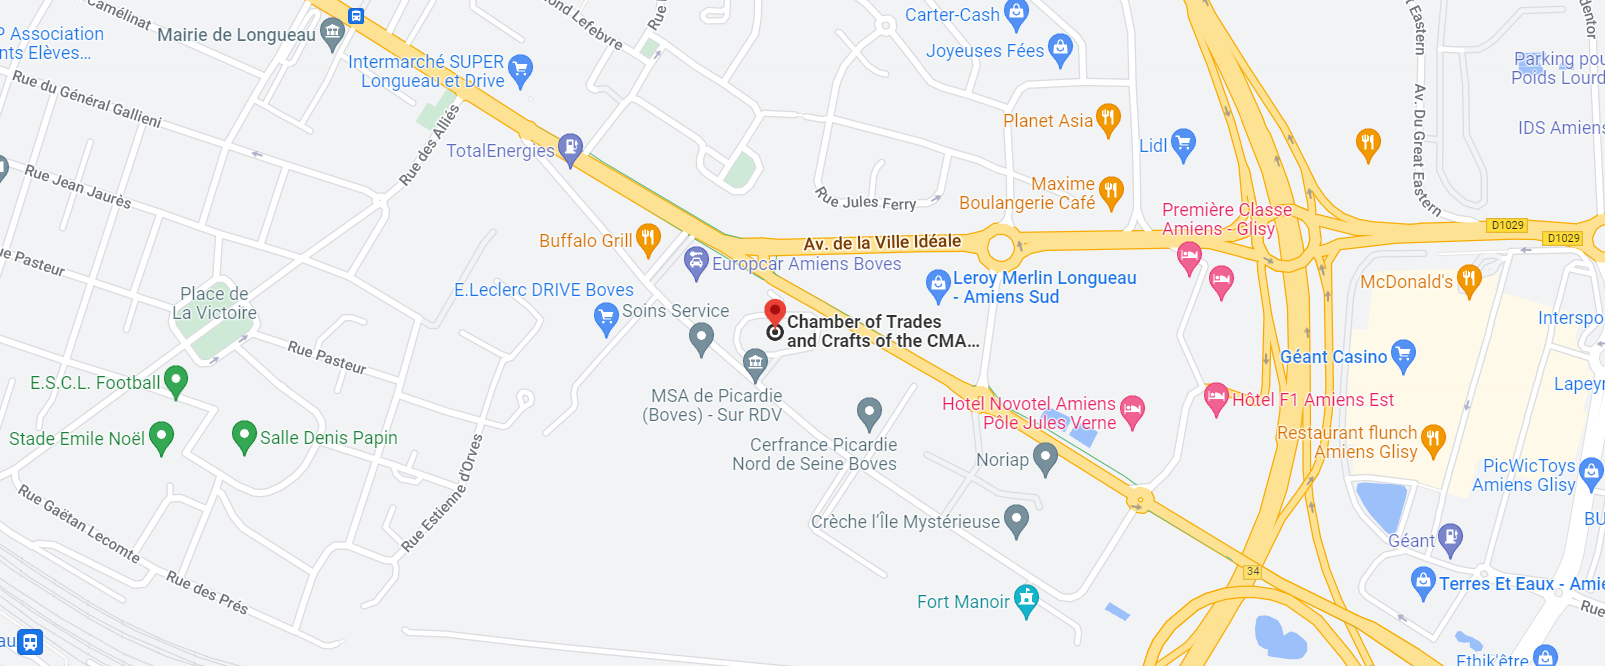
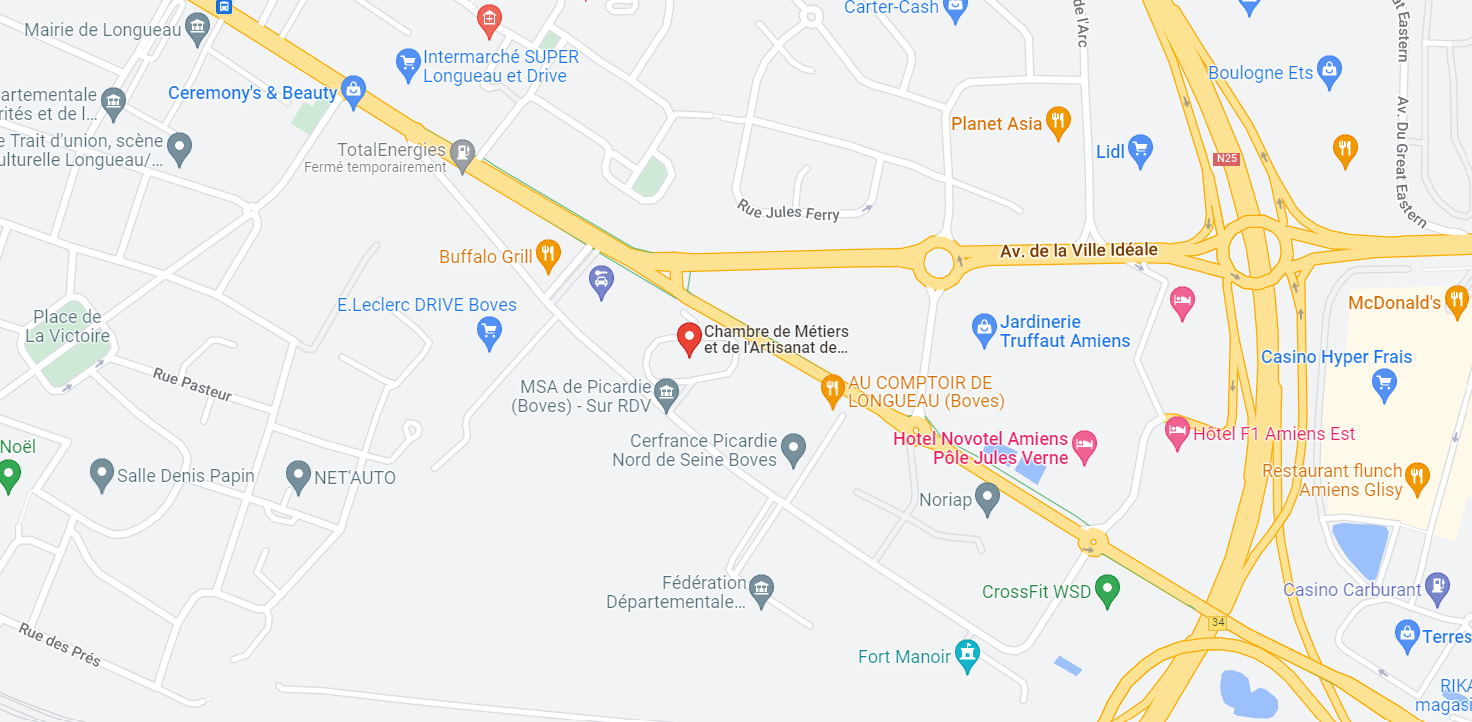
Quitter map + français.

diff --git a/src/component/PracticalInformation.js b/src/component/PracticalInformation.js
@@ -1,13 +1,11 @@
 
 
 import React from "react";
-// import { Map } from "./Map";
-import map from "../images/mapCMA.PNG"
-import { BsPinMapFill, BsFillClockFill, BsFillTelephoneFill, BsXLg } from "react-icons/bs";
-import { Nav } from "react-bootstrap";
-import loupe from "../images/loupe.svg";
+import PracticalInformationDisplay2 from "./PracticalInformationDisplay2";
+import PracticalInformationDisplay1 from "./PracticalInformationDisplay1";
+import "./practicalInformation.css";
 
-class PracticalInformation extends React.Component {
+class PracticalInformation extends React.Component {//Should be Display1 with the state outside deciding if we show this one!!
     constructor() {
         super();
         this.state = {
@@ -22,83 +20,13 @@ class PracticalInformation extends React.Component {
         });
     }
     render() {
-        // const location = {
-        //     // address: "17 Rue de l'Île Mystérieuse, 80440 Boves, France",
-        //     lat: 49.86743247024656,
-        //     lng: 2.364749792595157
-        // }
-
-        // const zoom = 11;
         return (
-            <div>
-
-                <div className="SubPartColored">
-                    <div style={{ paddingBottom: "12px" }}>Nos bureaux se trouvent au sein de la Chambre de Métiers et de l'Artisanat Hauts-de-France :</div>
-                    <div style={{ display: "flex", justifyContent: "center" }}>
-                        <BsPinMapFill onClick={this.setHasMap} style={{ fontSize: "40px", position: "relative", right: "115px", top: '15px', cursor: "pointer" }} />
-                        <div>
-                            <div>7 rue de l’Ile Mystérieuse </div>
-                            <div>Bureau 40</div>
-                            <div>80440 BOVES</div>
-                        </div>
-                    </div>
-                    <img src={loupe} style={{ width: "15vw", position: "relative", left: "40vw" }} alt={"loupe"} />{/**ça fait trop gamin */}
-                    <div className="title-part">
-                        <div >Nous</div>
-                        <div style={{ marginLeft: "35px" }} >trouver:</div>
-                    </div>
-                    {this.state.hasMap &&
-                        <>
-                            <img src={map} style={{ width: "90%", padding: "2px 0 2px 0" }} alt={"emplacement de la Chambe des Métier sur une carte"} />
-                            {/* <Map location={location} zoomLevel={1} /> {/* Voir les conditions d'utilisation de google Map*/}
-                            <BsXLg onClick={this.setHasMap} style={{ position: "relative", top: "10px", cursor: "pointer" }} />
-                        </>
-                    }
-                </div>
-                {/* <div className="SubPartColored2"> */}
-                <div className="SubPartColored2">
-                    <div>
-                        {/* // 8h30-12h 13h30-17h */}
-                        <BsFillClockFill />
-                        <div>8h30 - 12h</div>
-                        <div>13h30 - 17h</div>
-                    </div>
-                    <div>
-                        <BsFillTelephoneFill />
-                        <div>03 22 35 37 20</div>
-                    </div>
-                    <div className="title-part">
-                        <div >Nous</div>
-                        <div style={{ marginLeft: "35px" }} >contacter:</div>
-                    </div>
-                    {/* Le numéro de téléphone */}
-                    {/* On veut l'heure d'ouverture  */}
-                    {/* Quelles autres informations? */}
-                </div>
-                {/* More information: https://www.societe.com/societe/p-l-c-498965763.html */}
-                <div className="SubPartColored">
-                    <div style={{ display: "flex", justifyContent: "center" }}>
-                        <div>
-                            <Nav.Link href={"https://www.societe.com/societe/p-l-c-498965763.html"} className={"clickableItem"}>Renseignements juridiques</Nav.Link>
-                        </div>
-                    </div>
-                    <div className="title-part">
-                        <div >Nos</div>
-                        <div style={{ marginLeft: "35px" }} >Réseaux::</div>
-                    </div>
-                </div>
-                <div className="SubPartColored">
-                    <div style={{ display: "flex", justifyContent: "center" }}>
-                        <div style={{ paddingBottom: "12px" }}>Seule notre partie formation est accessible sur les réseaux, </div>
-                    </div>
-                    <div className="title-part">
-                        <div >Plus</div>
-                        <div style={{ marginLeft: "35px" }} >d'informations:</div>
-                    </div>
-                </div>
-            </div>
-
-
+            <>
+                {this.state.hasMap
+                    ? <PracticalInformationDisplay2 setHasMap={this.setHasMap} />
+                    : <PracticalInformationDisplay1 setHasMap={this.setHasMap} />
+                }
+            </>
         )
     }
 

diff --git a/src/component/PracticalInformationDisplay2.js b/src/component/PracticalInformationDisplay2.js
@@ -1,7 +1,6 @@
 
 
 import React from "react";
-// import { Map } from "./Map";
 import map from "../images/mapCMA.PNG"
 import { BsPinMapFill, BsFillClockFill, BsFillTelephoneFill, BsXLg, BsFillInfoCircleFill, BsLinkedin } from "react-icons/bs";
 import { Nav } from "react-bootstrap";
@@ -28,7 +27,7 @@ class PracticalInformationDisplay2 extends React.Component {//Should be Display1
         };
         return (
             <div>
-                <h3 style={{ marginTop: "20px", marginBottom: "40px" }}> Nous joindre: </h3>
+                <h3 style={{ marginTop: "20px", marginBottom: "40px" }}> Nous contacter: </h3>
                 <div className="InfoMenu">
                     <div className="subpart-info-gray-line">
                         <BsPinMapFill onClick={this.props.setHasMap} className="InfoIconGreen" />
@@ -39,10 +38,9 @@ class PracticalInformationDisplay2 extends React.Component {//Should be Display1
                                 <div>Bureau 40</div>
                                 <div>80440 BOVES</div>
                             </div>
-                            <div>
-                                <img src={map} style={{ width: "90%", padding: "2px 0 2px 0" }} alt={"emplacement de la Chambe des Métier sur une carte"} />
-                                {/* <Map location={location} zoomLevel={1} /> {/* Voir les conditions d'utilisation de google Map*/}
-                                <BsXLg onClick={this.props.setHasMap} style={{ position: "relative", top: "10px", cursor: "pointer" }} />
+                            <div style={{ position: "relative" }}>
+                                <img src={map} className={"map-image"} alt={"emplacement de la Chambe des Métier sur une carte"} />
+                                <BsXLg onClick={this.props.setHasMap} className={"map-cross"} />
                             </div>
                         </div>
                     </div>

diff --git a/src/component/PracticalInformationDisplay1.js b/src/component/PracticalInformationDisplay1.js
@@ -1,7 +1,6 @@
 
 
 import React from "react";
-// import { Map } from "./Map";
 import { BsPinMapFill, BsFillClockFill, BsFillTelephoneFill, BsFillInfoCircleFill, BsLinkedin } from "react-icons/bs";
 import { Nav } from "react-bootstrap";
 
@@ -9,7 +8,7 @@ class PracticalInformationDisplay1 extends React.Component {//Should be Display1
     render() {
         return (
             <div>
-                <h3 style={{ marginTop: "20px", marginBottom: "40px" }}> Nous joindre: </h3>
+                <h3 style={{ marginTop: "20px", marginBottom: "40px" }}> Nous contacter: </h3>
                 <div className="InfoMenu">
                     <div className="subPartInfoLine">
                         <div className="subpart-info-gray">

diff --git a/src/App.jsx b/src/App.jsx
@@ -7,7 +7,7 @@ import CustomFormation from './component/formationSide/formation/CustomFormation
 import FormationsCatalog from './component/formationSide/formation/FormationsCatalogue';
 import FormationDescription from './component/formationSide/formation/FormationDescription';
 import FormationMenu from './component/formationSide/FormationMenu';
-import PracticalInformation from './component/PracticalInformation2';
+import PracticalInformation from './component/PracticalInformation';
 import CabinetMenu from './component/cabinetSide/CabinetMenu';
 // import BottomMessage from './component/common/BottomMessage';
 import React from 'react';

diff --git a/src/component/practicalInformation.css b/src/component/practicalInformation.css
@@ -1,0 +1,14 @@
+.map-image {
+    width: 90%;
+    margin: 25px 0;
+    background: linear-gradient(145deg, #cacaca, #f0f0f0);
+    box-shadow: 20px 20px 60px #bebebe,
+        -20px -20px 60px #ffffff;
+}
+
+.map-cross{
+    position:absolute;
+    top: 30px;
+    left: 7%;
+    cursor: pointer; 
+}
